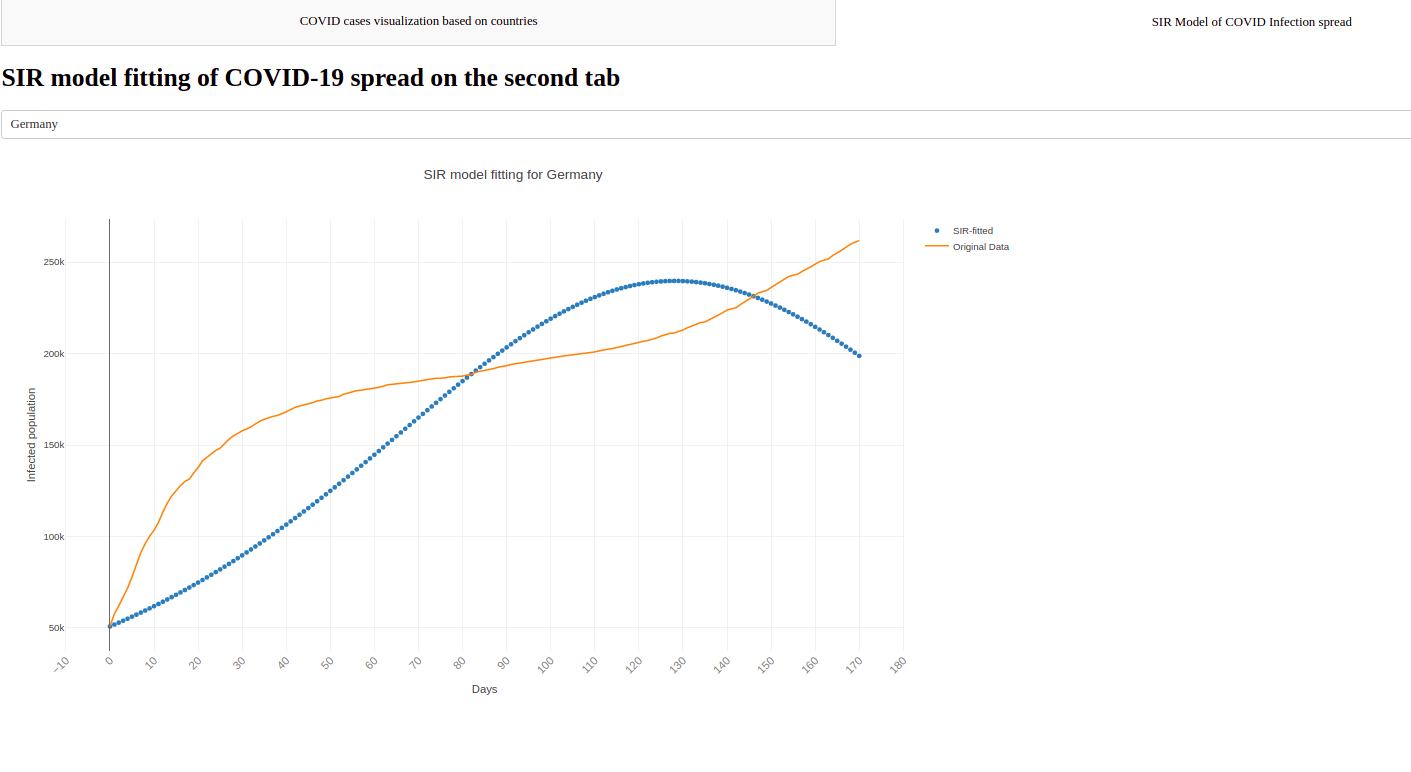
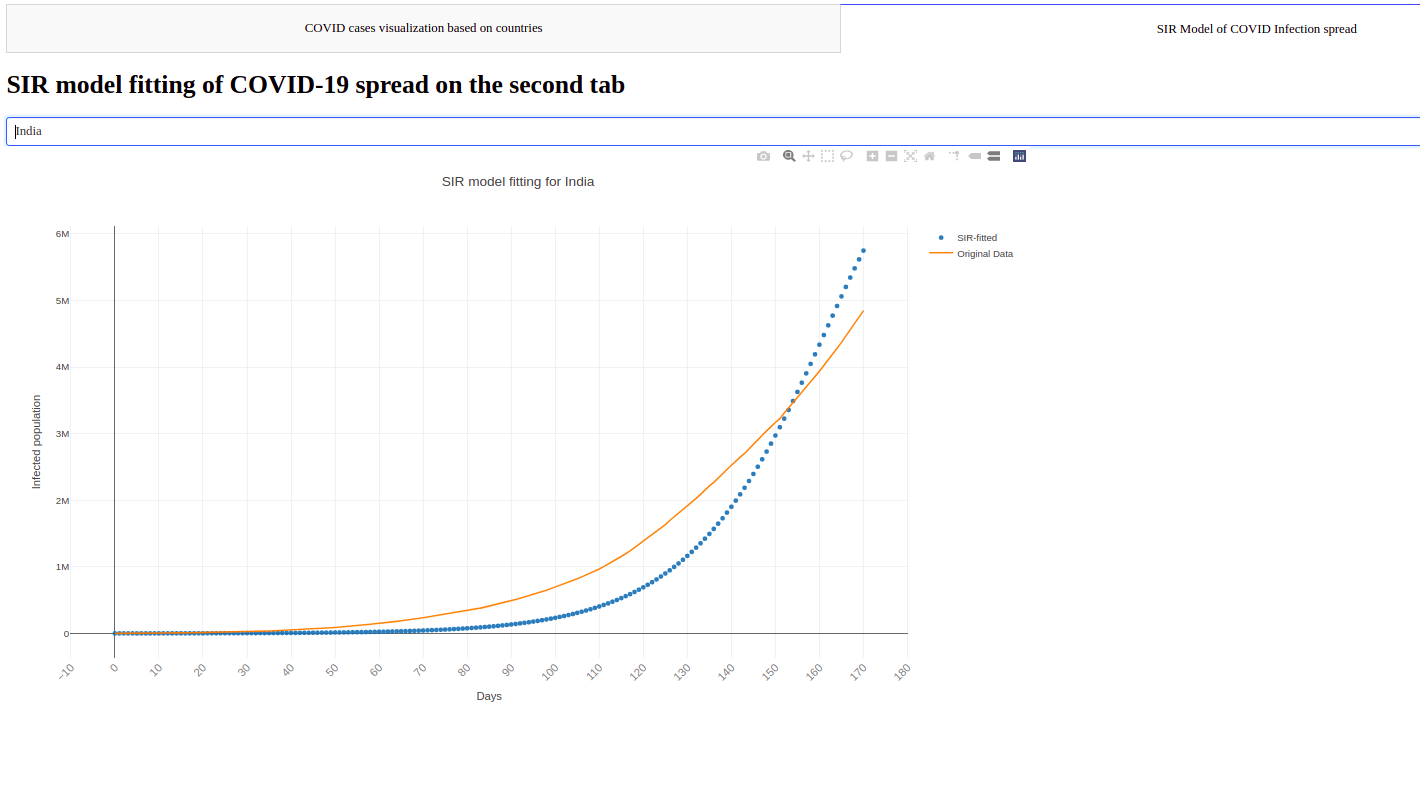
commit eds 2

diff --git a/src/visualization/visualize.py b/src/visualization/visualize.py
@@ -158,7 +158,7 @@ app.layout = html.Div([
             dcc.Dropdown(
                 id='select_country',
                 options=[{'label': each, 'value': each} for each in df_analyse['country'].unique()],
-                value='Italy',  # which are pre-selected
+                value='India',  # which are pre-selected
                 multi=False),
 
             dcc.Graph(figure=fig, id='SIR_figure')
